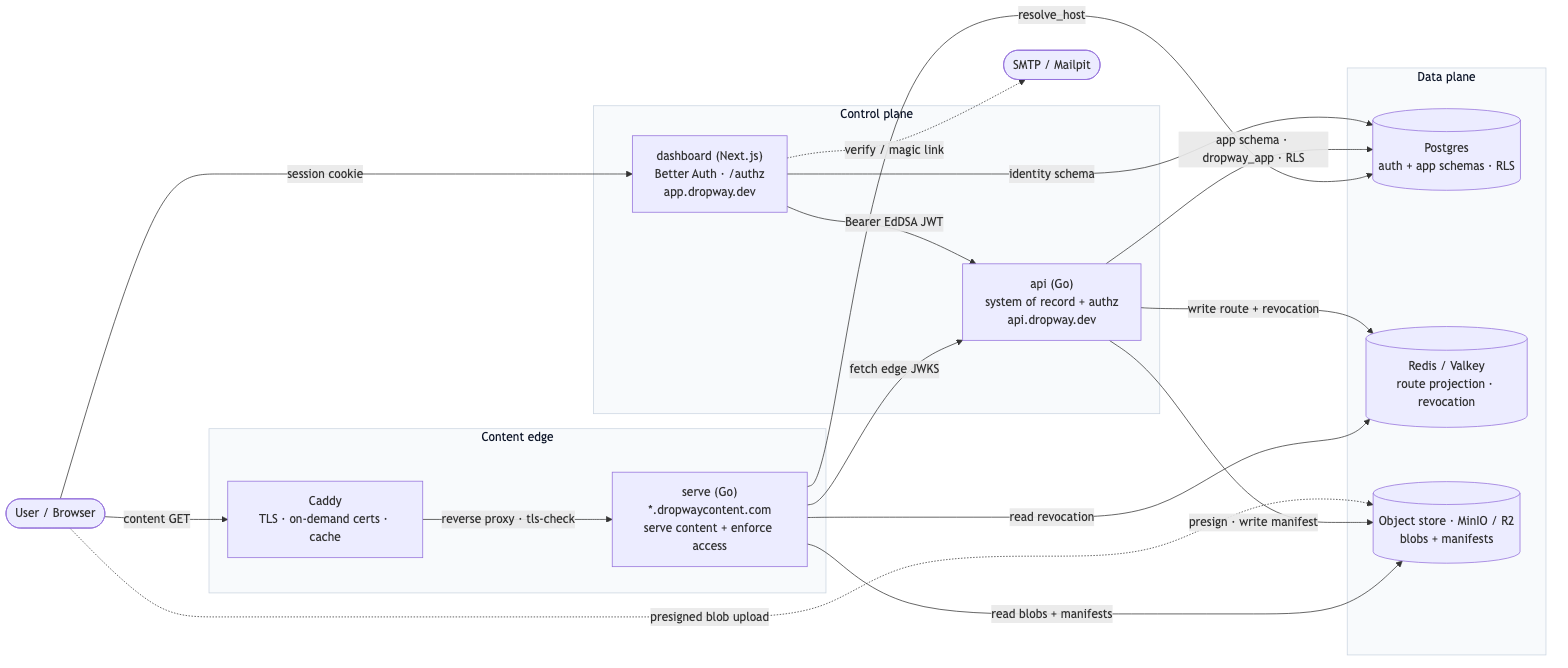
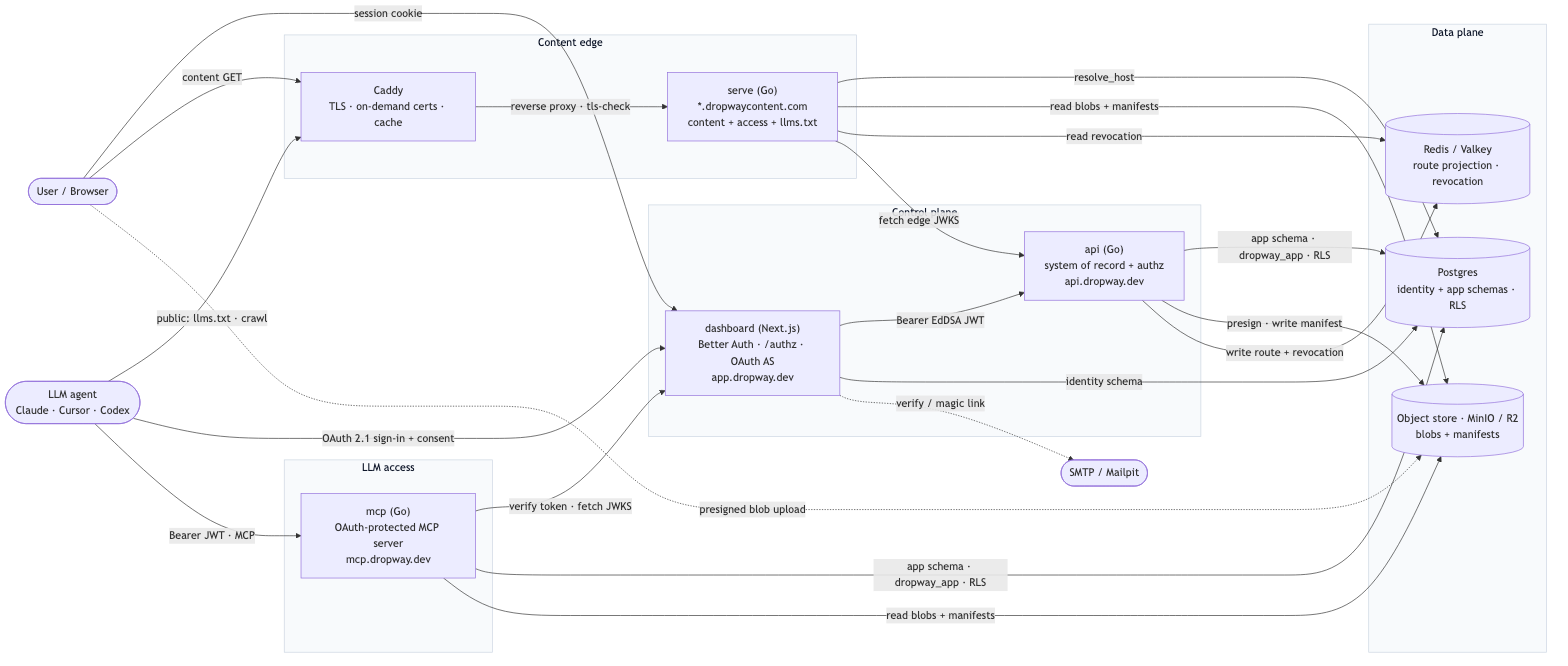
docs: MCP server setup instructions + factor it into the system diagrams
- README: "Connect an AI tool (MCP)" section (per-tool connect steps, OAuth
  flow, org toggle, prod env vars).
- deploy/README: add api/dashboard/serve/mcp to the service table + a "LLM
  access: the MCP server" operator section (env contract, audience/issuer
  alignment, JWKS, mcp_enabled kill-switch, production DNS/TLS).
- diagrams: add the mcp server + LLM agent to the component diagram (new "LLM
  access" plane) and a new sequence flow (e) for the MCP OAuth + read path;
  fix the Postgres label (auth -> identity); re-render PNGs.

diff --git a/deploy/README.md b/deploy/README.md
@@ -34,16 +34,20 @@ plane is ready.
 
 | Service        | Purpose                                                        | Ports |
 |----------------|---------------------------------------------------------------|-------|
+| `api`          | Go control-plane: system of record + authz boundary           | 8080  |
+| `dashboard`    | Next.js + Better Auth (control plane + OAuth authorization server) | 3000  |
+| `serve`        | Go content server (`*.<CONTENT_DOMAIN>`); serves sites + `llms.txt` | 8090  |
+| `mcp`          | OAuth-protected MCP server for LLM access to sites             | 8092  |
 | `postgres`     | System of record; `app` schema (Go-owned) + RLS               | 5432  |
 | `minio`        | R2/S3-compatible object store for blobs + deploy manifests     | 9000 (S3), 9001 (console) |
 | `createbucket` | One-shot: ensures the `dropway-blobs` bucket exists            | —     |
 | `migrate`      | One-shot: `goose up` of the app schema + sets runtime password | —     |
 
-The **Go API** (`services/api`) and the **dashboard** (`apps/dashboard`) are owned by
-other parts of the repo; once present they slot into this compose file behind the same
-env contract documented in [`.env.example`](./.env.example) (`DATABASE_URL`, the
-`S3_*` block, and the `JWKS_URL` / `JWT_ISSUER` / `JWT_AUDIENCE` trio the Go verifier
-uses).
+The **Go API** (`services/api`), the **dashboard** (`apps/dashboard`), the **content
+server** (`services/serve`), and the **MCP server** (`services/mcp`) all slot into this
+compose file behind the env contract documented in [`.env.example`](./.env.example)
+(`DATABASE_URL`, the `S3_*` block, and the `JWKS_URL` / `JWT_ISSUER` / `JWT_AUDIENCE`
+trio the Go verifiers use).
 
 ## Serving sites: the content domain
 
@@ -96,6 +100,52 @@ Two things to know:
   `__Host-edge` cookie, which browsers accept only over `https`. With the local `http`
   default, view a **public** site in the browser; gated tiers need a real TLS origin
   (`CONTENT_SCHEME=https`).
+
+## LLM access: the MCP server
+
+The `mcp` service (`services/mcp`) is an **OAuth-protected, remote (Streamable HTTP)
+[Model Context Protocol](https://modelcontextprotocol.io/) server**. It lets an
+**authorized** LLM agent list and read a tenant's deployed sites — **including gated
+content** — scoped to one org by the same Postgres RLS as everything else (it connects
+as the non-`BYPASSRLS` `dropway_app` role via `DATABASE_URL`). Public sites are reachable
+by crawlers without MCP via the `serve`/Worker-emitted `llms.txt`; gated sites are
+reachable by an LLM **only** through an authorized MCP connection.
+
+**It comes up with the stack** — `docker compose -f deploy/docker-compose.yml up` starts
+`mcp` on `:8092` alongside the rest. Users connect their AI tool from the dashboard
+(**Settings → LLM access (MCP) → Connect**); the first connection runs a browser OAuth
+2.1 flow (Dynamic Client Registration → sign in → "Authorize MCP access") against the
+dashboard, which is the authorization server. No API keys are exchanged.
+
+**Env contract** (in [`.env.example`](./.env.example)). The audience/issuer must line up
+across services or token verification fails:
+
+| Var | What it sets | Local default | Production |
+|---|---|---|---|
+| `MCP_PORT` | port the server listens on | `8092` | `8092` (behind your TLS edge) |
+| `MCP_PUBLIC_URL` | the server's external URL — used as the OAuth **resource/audience** | `http://localhost:8092` | `https://mcp.dropway.dev` |
+| `NEXT_PUBLIC_MCP_URL` | the URL the dashboard's Connect modal displays | `http://localhost:8092` | `https://mcp.dropway.dev` |
+
+How the pieces agree (all enforced — a mismatch is a 401):
+
+- **`MCP_PUBLIC_URL`** is the OAuth **resource** the client requests and the **audience**
+  (`aud`) the MCP server pins. The dashboard registers it in the OAuth provider's
+  `validAudiences` (read from the same value), so the provider mints a **JWT** access
+  token (not opaque) whose `aud` matches. Keep `MCP_PUBLIC_URL` **byte-identical** on the
+  `mcp` and `dashboard` services, and make it the URL clients actually connect to.
+- **`JWT_ISSUER`** is the `iss` the MCP server expects; the dashboard's `jwt()` plugin
+  stamps it onto OAuth access tokens (the same value the Go API already verifies).
+- **`JWKS_URL`** (compose default `http://dashboard:3000/api/auth/jwks`) is where the MCP
+  server fetches the signing keys to verify tokens.
+- The MCP server re-checks **`org_meta.mcp_enabled`** on every request, so an admin
+  turning MCP off in Settings cuts off access immediately — even for already-issued
+  tokens, independent of TTL.
+
+**Production:** give `mcp.dropway.dev` a DNS record + TLS (front it with your edge/load
+balancer terminating TLS to `:8092`), set `MCP_PUBLIC_URL=https://mcp.dropway.dev` and
+`NEXT_PUBLIC_MCP_URL=https://mcp.dropway.dev`, and point `MCP_DASHBOARD_URL` at your
+dashboard origin (the browser-facing authorization server). See
+[`docs/ARCHITECTURE.md`](../docs/ARCHITECTURE.md) §6 ("LLM access").
 
 ## Two database roles (why there are two URLs)
 

diff --git a/docs/diagrams/README.md b/docs/diagrams/README.md
@@ -10,29 +10,39 @@ blocks below natively.
 
 How the runtime pieces talk to each other. `serve` is the self-host content edge
 (the plain-Go alternative to the Cloudflare serving Worker); Redis/Valkey holds the
-route projection + revocation denylist (`api` writes, `serve` reads).
+route projection + revocation denylist (`api` writes, `serve` reads). `mcp` is the
+OAuth-protected MCP server: an LLM agent reads **public** content as a crawler (via
+`llms.txt` on the edge) and **gated** content only through `mcp`, after a browser
+OAuth flow against the dashboard (the authorization server) — scoped to one org by
+the same RLS as the rest of the platform.
 
 ![Components](./components.png)
 
 ```mermaid
 flowchart LR
   user(["User / Browser"])
+  agent(["LLM agent<br/>Claude · Cursor · Codex"])
 
   subgraph edge["Content edge"]
     direction TB
     caddy["Caddy<br/>TLS · on-demand certs · cache"]
-    serve["serve (Go)<br/>*.dropwaycontent.com<br/>serve content + enforce access"]
+    serve["serve (Go)<br/>*.dropwaycontent.com<br/>content + access + llms.txt"]
   end
 
   subgraph control["Control plane"]
     direction TB
-    dash["dashboard (Next.js)<br/>Better Auth · /authz<br/>app.dropway.dev"]
+    dash["dashboard (Next.js)<br/>Better Auth · /authz · OAuth AS<br/>app.dropway.dev"]
     api["api (Go)<br/>system of record + authz<br/>api.dropway.dev"]
+  end
+
+  subgraph llm["LLM access"]
+    direction TB
+    mcp["mcp (Go)<br/>OAuth-protected MCP server<br/>mcp.dropway.dev"]
   end
 
   subgraph datap["Data plane"]
     direction TB
-    pg[("Postgres<br/>auth + app schemas · RLS")]
+    pg[("Postgres<br/>identity + app schemas · RLS")]
     redis[("Redis / Valkey<br/>route projection · revocation")]
     store[("Object store · MinIO / R2<br/>blobs + manifests")]
   end
@@ -42,6 +52,9 @@ flowchart LR
   user -->|session cookie| dash
   user -->|content GET| caddy
   user -. presigned blob upload .-> store
+  agent -->|public: llms.txt · crawl| caddy
+  agent -->|OAuth 2.1 sign-in + consent| dash
+  agent -->|Bearer JWT · MCP| mcp
   caddy -->|reverse proxy · tls-check| serve
   dash -->|Bearer EdDSA JWT| api
   dash -->|identity schema| pg
@@ -53,15 +66,19 @@ flowchart LR
   serve -->|read blobs + manifests| store
   serve -->|read revocation| redis
   serve -->|fetch edge JWKS| api
+  mcp -->|verify token · fetch JWKS| dash
+  mcp -->|app schema · dropway_app · RLS| pg
+  mcp -->|read blobs + manifests| store
 
   classDef plane fill:#f8fafc,stroke:#cbd5e1,color:#0f172a;
-  class edge,control,datap plane;
+  class edge,control,datap,llm plane;
 ```
 
 ## 2. Sequence flows
 
 (a) sign up · (b) sign in · (c) create + deploy a site · (d) another user opening a
-site shared with them (the gated edge-token exchange).
+site shared with them (the gated edge-token exchange) · (e) an LLM agent reading gated
+content through the MCP server (the OAuth 2.1 flow).
 
 ![Sequence](./sequence.png)
 
@@ -69,9 +86,11 @@ site shared with them (the gated edge-token exchange).
 sequenceDiagram
   actor U as User (owner)
   actor V as Viewer
+  actor L as LLM agent
   participant D as dashboard
   participant A as api
   participant S as serve
+  participant MCP as mcp
   participant PG as Postgres
   participant OS as Object store
   participant M as Email
@@ -126,6 +145,23 @@ sequenceDiagram
     V->>S: GET / (with __Host-edge cookie)
     S->>OS: read manifest + blob
     S-->>V: stream content (private, no-store)
+  end
+
+  rect rgb(225,245,254)
+    note over L,OS: e) LLM agent reads gated content via the MCP server (OAuth 2.1)
+    L->>MCP: MCP request (no token)
+    MCP-->>L: 401 + WWW-Authenticate (resource metadata)
+    L->>MCP: GET /.well-known/oauth-protected-resource
+    MCP-->>L: authorization_server = dashboard
+    L->>D: register client (DCR) + authorize (PKCE, resource=mcp)
+    D->>U: sign in + approve "Authorize MCP access"
+    D-->>L: redirect with auth code
+    L->>D: exchange code for JWT access token (aud=mcp, org_id)
+    L->>MCP: MCP request (Bearer JWT)
+    MCP->>D: fetch JWKS, verify token (iss/aud)
+    MCP->>PG: check org_meta.mcp_enabled, SET LOCAL RLS
+    MCP->>OS: read manifest + blob (org-scoped)
+    MCP-->>L: list_sites / read_file results
   end
 ```
 

diff --git a/README.md b/README.md
@@ -163,6 +163,31 @@ the port, so the stored route stays the bare host. Full details (wildcard DNS/ce
 Public-Suffix-List isolation rule, and the `https` requirement for gated sites) are in
 **[`deploy/README.md`](deploy/README.md#serving-sites-the-content-domain)**.
 
+### Connect an AI tool (MCP)
+
+Dropway ships an **OAuth-protected MCP server** (the `mcp` service, `http://localhost:8092`
+locally) so an LLM agent can browse and read your sites. **Public** sites are also readable
+by crawlers via an auto-served [`llms.txt`](https://llmstxt.org/); **gated** sites
+(org-only / allowlist / password) are reachable by an LLM **only** through an authorized MCP
+connection — your access control holds for AI exactly as it does for people.
+
+Add it to your AI tool as a custom connector using the MCP URL — the dashboard shows
+copy-paste steps under **Settings → LLM access (MCP) → Connect**. The short version:
+
+| Tool | How |
+|---|---|
+| **Claude Cowork** | Settings → Connectors → *Add custom connector* → paste `http://localhost:8092/mcp` |
+| **Claude Code** | `claude mcp add --transport http dropway http://localhost:8092/mcp`, then `/mcp` → *Authenticate* |
+| **Cursor** | add `{ "mcpServers": { "dropway": { "url": "http://localhost:8092/mcp" } } }` to `~/.cursor/mcp.json` |
+| **Codex** | add `[mcp_servers.dropway]` with `url = "http://localhost:8092/mcp"` to `~/.codex/config.toml` |
+
+The first connection opens your browser to sign in and approve **"Authorize MCP access"** —
+that's standard OAuth 2.1 (no API keys to copy). Access stays scoped to your organization
+and honors each site's sharing settings. Owners/admins can switch MCP access off for the
+whole org under **Settings → LLM access (MCP)**. In production set `MCP_PUBLIC_URL` /
+`NEXT_PUBLIC_MCP_URL` to your MCP host (e.g. `https://mcp.dropway.dev`); see
+**[`deploy/README.md`](deploy/README.md#llm-access-the-mcp-server)**.
+
 ### Develop without Docker
 
 ```sh
@@ -193,7 +218,7 @@ can self-host for free, plus an optional hosted SaaS for convenience and scale.
 
 - **[`docs/ARCHITECTURE.md`](docs/ARCHITECTURE.md)** — the full system design.
 - **[`docs/diagrams/`](docs/diagrams/)** — component + sequence diagrams (sign-up,
-  sign-in, deploy, gated access).
+  sign-in, deploy, gated access, LLM/MCP access).
 - **[`status.md`](status.md)** — build status, monorepo map, and the complete local-run
   reference.
 - **[`CONTRIBUTING.md`](CONTRIBUTING.md)** — contributions welcome under a DCO sign-off.